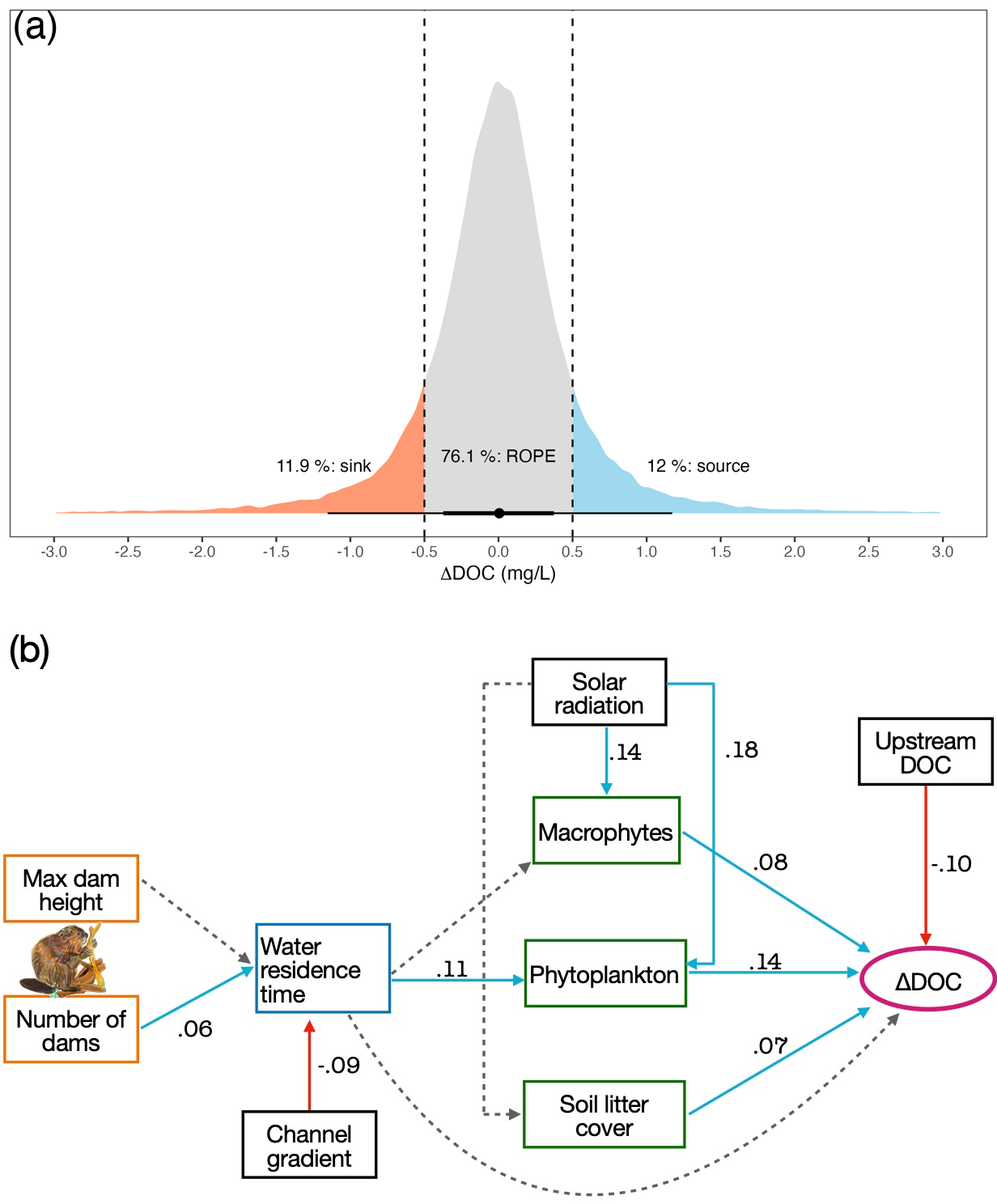
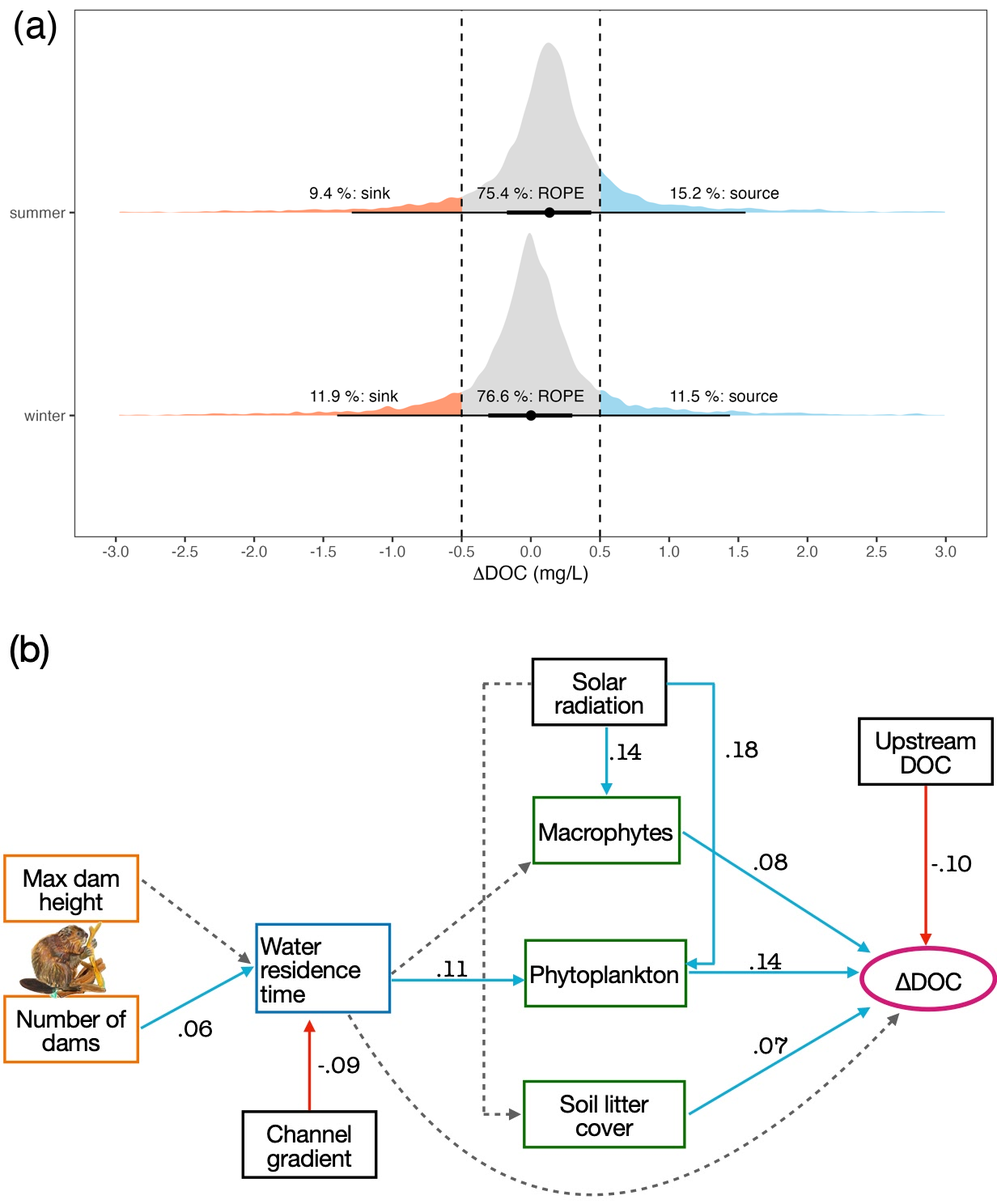
Q1: measurement-error model on raw upstream/downstream DOC (mi(0.2), Student-t, site pairing); season-specific dDOC; new Fig 2a; Methods/Results/Abstract/Discussion updated; notebook section

diff --git a/overleaf/main.tex b/overleaf/main.tex
@@ -38,7 +38,7 @@
 \affil[8]{\orgname{umweltbildner.ch}, \orgaddress{\city{Bern}, \country{Switzerland}}}
 \affil[9]{\orgdiv{Institute of Geography}, \orgname{University of Bern}, \orgaddress{\country{Switzerland}}}
 
-\abstract{Despite recolonization across Europe, the effects of beavers on freshwater dissolved organic carbon (DOC) concentrations remain understudied. DOC influences microbial activity and energy flow in aquatic food webs. Understanding how and when beaver-engineering alters DOC is therefore critical for predicting its ecosystem consequences. Using a national-scale dataset of 176 beaver-engineered streams, we quantified the direction, drivers and magnitude of the DOC concentration change across beaver dam complexes. Beaver-engineering did not change DOC in a consistent direction: the average change was null, but individual responses were highly variable, so that for a single sampling of a beaver-engineered stream the probability of a negligible DOC change was 76\%, of a DOC source response 12\%, and of a sink response 12\%. The direction of change was set by local drivers: dams increased water residence time, which promoted primary producers and thereby DOC, whereas high upstream DOC favoured DOC retention. Because the change is bidirectional, its null average conceals its magnitude: per unit area, the beaver-mediated DOC change was 140 times (summer) and 32 times (winter) larger than the seasonal floodplain-scale DOC change. Beaver engineering thus creates localized, intense and bidirectional DOC control points in stream networks, whose direction is governed by hydrology and primary producers. These findings enable stakeholders to anticipate where and when beaver presence will affect water quality and ecosystem functioning.}
+\abstract{Despite recolonization across Europe, the effects of beavers on freshwater dissolved organic carbon (DOC) concentrations remain understudied. DOC influences microbial activity and energy flow in aquatic food webs. Understanding how and when beaver-engineering alters DOC is therefore critical for predicting its ecosystem consequences. Using a national-scale dataset of 176 beaver-engineered streams, we quantified the direction, drivers and magnitude of the DOC concentration change across beaver dam complexes. Beaver-engineering did not change DOC in a consistent direction: the average change was negligible (0.14 mg/L in summer, 0.00 mg/L in winter), but individual responses were highly variable, so that for a single sampling of a beaver-engineered stream the probability of a negligible DOC change was about 76\%, of a DOC source response 11--15\%, and of a sink response 9--12\%. The direction of change was set by local drivers: dams increased water residence time, which promoted primary producers and thereby DOC, whereas high upstream DOC favoured DOC retention. Because the change is bidirectional, its null average conceals its magnitude: per unit area, the beaver-mediated DOC change was 140 times (summer) and 32 times (winter) larger than the seasonal floodplain-scale DOC change. Beaver engineering thus creates localized, intense and bidirectional DOC control points in stream networks, whose direction is governed by hydrology and primary producers. These findings enable stakeholders to anticipate where and when beaver presence will affect water quality and ecosystem functioning.}
 
 \keywords{Castor, dam, freshwater, DOC, causal inference, abundance, primary producers, hydrology}
 
@@ -96,12 +96,12 @@ Our dataset included a broad set of abiotic and biotic variables that are hypoth
 
 \subsection{Beaver-engineering effects on DOC}
 
-Beaver-engineering did not change DOC concentrations on average: the mean \(\Delta\)DOC across streams was 0.00 mg/L (95\% Bayesian credible interval [BCI]: -0.12 ; 0.12 mg/L), i.e., within the ROPE. Around this null average, however, individual responses were highly variable and heavy-tailed (Figure~\ref{fig:2}a): for a single sampling of a typical beaver-engineered stream, the posterior predictive probability of a negligible \(\Delta\)DOC was 76\%, of a DOC source response 12\%, and of a DOC sink response 12\% (95\% posterior predictive interval: -1.26 ; 1.27 mg/L). Beaver-engineered streams are therefore equally likely to increase or to decrease DOC by an ecologically relevant amount, and the heavy tails of the distribution indicate that occasional large changes occur in both directions. Because \(\Delta\)DOC is bidirectional, a null average does not imply the absence of an effect: it conceals the magnitude of the change, which we quantify below with the beaver amplification factor M (third research question).
+Beaver-engineering did not change DOC concentrations in a consistent direction. The average \(\Delta\)DOC was 0.14 mg/L in summer (95\% Bayesian credible interval [BCI]: 0.05 ; 0.22 mg/L; P(\(\Delta\)DOC \textgreater{} 0) \textgreater{} 0.99) and 0.00 mg/L in winter (95\% BCI: -0.06 ; 0.07 mg/L), i.e., a small net DOC release in summer and none in winter, both entirely within the ROPE of \(\pm 0.5\) mg/L. Around these averages, however, individual responses were highly variable and heavy-tailed (Figure~\ref{fig:2}a): for a single sampling of a beaver-engineered stream, the posterior predictive probability of a negligible \(\Delta\)DOC was 75\% in summer and 77\% in winter, of a DOC source response 15\% in summer and 11\% in winter, and of a DOC sink response 9\% in summer and 12\% in winter (95\% posterior predictive intervals: -1.9 ; 2.2 mg/L in summer, -2.0 ; 2.0 mg/L in winter). Beaver-engineered streams are therefore about as likely to increase as to decrease DOC by an ecologically relevant amount, with a slight prevalence of source responses in summer, and the heavy tails indicate that occasional large changes occur in both directions. Because \(\Delta\)DOC is bidirectional, a null average does not imply the absence of an effect: it conceals the magnitude of the change, which we quantify below with the beaver amplification factor M (third research question).
 
 \begin{figure}[htbp]
 \centering
 \includegraphics[width=\textwidth]{figures/media/figure2.png}
-\caption{a) Posterior predictive distribution of \(\Delta\)DOC for a typical beaver-engineered stream (predictors at their mean, stream-level effects integrated out). The orange shaded area represents the posterior predictive probability that a single sampling shows a DOC sink response; the light blue shaded area the probability of a DOC source response. The grey shaded area represents the Region Of Practical Equivalence (ROPE) and it defines an interval around zero where effects are too small to be of practical importance. The central dot indicates the median of the distribution, while the thick and thin horizontal lines represent the 66\% and 95\% credible intervals. b) Drivers of beaver-mediated DOC change. Solid edges (red = negative, blue = positive) represent ≥90\% probability evidence of causal effects; dashed edges represent inconclusive evidence. Standardized average effects are shown. Full posterior parameter distributions in Appendix S1: Figure S4.}\label{fig:2}
+\caption{a) Posterior predictive distribution of \(\Delta\)DOC for a single sampling of a beaver-engineered stream, in summer and winter (measurement-error model on raw upstream and downstream DOC concentrations). The orange shaded area represents the posterior predictive probability that a single sampling shows a DOC sink response; the light blue shaded area the probability of a DOC source response. The grey shaded area represents the Region Of Practical Equivalence (ROPE) and it defines an interval around zero where effects are too small to be of practical importance. The central dot indicates the median of the distribution, while the thick and thin horizontal lines represent the 66\% and 95\% intervals. b) Drivers of beaver-mediated DOC change. Solid edges (red = negative, blue = positive) represent ≥90\% probability evidence of causal effects; dashed edges represent inconclusive evidence. Standardized average effects are shown. Full posterior parameter distributions in Appendix S1: Figure S4.}\label{fig:2}
 \end{figure}
 
 \subsection{Abiotic and biotic drivers of DOC in beaver-engineered systems}
@@ -120,7 +120,7 @@ Irrespective of its direction, the magnitude of the beaver-mediated DOC change p
 
 \section{Discussion}
 
-We found that beaver engineering does not push stream DOC in a consistent direction: across 176 streams the average change was null, yet roughly one in four samplings of a beaver-engineered reach showed an ecologically relevant DOC change, as often a source as a sink response, and the magnitude of that change per unit area exceeded the seasonal floodplain-scale DOC variation by one to two orders of magnitude. Beaver ponds thus act as localized, intense and bidirectional DOC control points \cite{wohl2012,larsen2021}: whether a pond exports or retains DOC at a given moment is governed by local hydrology and primary producers rather than being a fixed property of the site. This context-dependence helps to reconcile the conflicting results of previous site-specific studies, which reported beaver ponds as either DOC sources or sinks \cite{larsen2021,grudzinski2022}. We also found that beaver-engineering influenced DOC concentrations indirectly by increasing water residence time, which, in turn, enhanced aquatic primary productivity. Beaver dams are known to slow water flow and increase light penetration, creating stable habitats for phytoplankton and macrophytes \cite{johnston2017,nummi2018}. These primary producers were shown to release organic compounds and detritus and to increase DOC concentrations in dammed streams \cite{bedzki2010}. Although our estimate of the primary-producers effect on DOC was based on a relatively limited number of samples, the positive influence we detected aligns with previously documented relationships between aquatic primary productivity and DOC in lotic ecosystems \cite{allan2021}. Similar indirect effects between water flow alteration, aquatic primary productivity, and DOC were observed in other temperate and boreal streams \cite{larsen2021,grudzinski2022}. Tracing the total effects through the SCM puts this pathway in perspective: the overall influence of dam number and height on \(\Delta\)DOC via water residence time was small compared with that of upstream DOC load and solar radiation (Appendix S1: Figure S8). Beaver dams thus create the conditions -- ponded water, longer residence time, habitat for primary producers -- under which DOC can be rapidly produced or consumed, but whether a pond exports or retains DOC at a given moment is decided mainly by what enters it (DOC load) and by the energy available to its primary producers (light, season).
+We found that beaver engineering does not push stream DOC in a consistent direction: across 176 streams the average change was null, yet roughly one in four samplings of a beaver-engineered reach showed an ecologically relevant DOC change, about as often a source as a sink response (with a slight prevalence of source responses in summer), and the magnitude of that change per unit area exceeded the seasonal floodplain-scale DOC variation by one to two orders of magnitude. Beaver ponds thus act as localized, intense and bidirectional DOC control points \cite{wohl2012,larsen2021}: whether a pond exports or retains DOC at a given moment is governed by local hydrology and primary producers rather than being a fixed property of the site. This context-dependence helps to reconcile the conflicting results of previous site-specific studies, which reported beaver ponds as either DOC sources or sinks \cite{larsen2021,grudzinski2022}. We also found that beaver-engineering influenced DOC concentrations indirectly by increasing water residence time, which, in turn, enhanced aquatic primary productivity. Beaver dams are known to slow water flow and increase light penetration, creating stable habitats for phytoplankton and macrophytes \cite{johnston2017,nummi2018}. These primary producers were shown to release organic compounds and detritus and to increase DOC concentrations in dammed streams \cite{bedzki2010}. Although our estimate of the primary-producers effect on DOC was based on a relatively limited number of samples, the positive influence we detected aligns with previously documented relationships between aquatic primary productivity and DOC in lotic ecosystems \cite{allan2021}. Similar indirect effects between water flow alteration, aquatic primary productivity, and DOC were observed in other temperate and boreal streams \cite{larsen2021,grudzinski2022}. Tracing the total effects through the SCM puts this pathway in perspective: the overall influence of dam number and height on \(\Delta\)DOC via water residence time was small compared with that of upstream DOC load and solar radiation (Appendix S1: Figure S8). Beaver dams thus create the conditions -- ponded water, longer residence time, habitat for primary producers -- under which DOC can be rapidly produced or consumed, but whether a pond exports or retains DOC at a given moment is decided mainly by what enters it (DOC load) and by the energy available to its primary producers (light, season).
 
 We hypothesised that the influence of beaver-engineering on DOC concentrations would be stronger in summer than in winter, owing to higher primary productivity and warmer water temperatures during the growing season. Our results supported this expectation: the magnitude of the beaver-mediated DOC change per unit area was roughly 140-fold in summer and 32-fold in winter that of the background floodplain-scale DOC change (Figure~\ref{fig:3}). Seasonally intensified effects of beaver-engineering on DOC mirror patterns described for nutrient cycling in other aquatic ecosystems \cite{larsen2021,grudzinski2022}. The larger magnitude of change in summer likely reflects elevated primary productivity and accelerated microbial turnover \cite{mulholland1997,raza2023}, both of which are driven by increased solar radiation and warmer temperatures \cite{battin2023}. Taken together, these patterns indicate that seasonality intensifies the effects of beaver-engineering on DOC dynamics by intensifying biologically mediated C fluxes.
 
@@ -128,7 +128,7 @@ Beaver-mediated impacts on DOC concentrations have major implications for aquati
 
 Quantifying the magnitude of the DOC change also revealed how and when beaver-engineering influenced DOC dynamics in our study. Previous studies have demonstrated spatial and temporal variability in beaver influence on DOC, but seldom expressed them relative to background seasonal variation \cite{johnston2017,ledford2023}. By normalizing beaver-mediated DOC change against seasonal floodplain-scale change, we could provide a comparable metric across climatic and ecological settings \cite{larsen2021,nummi2018}. This approach emphasizes that beaver-engineering not only modified in situ DOC concentration but also intensified DOC processing far beyond seasonal floodplain baselines, in either direction.
 
-A null average change could also arise if the upstream--downstream difference merely reflected background spatial variability of DOC along a stream. Two observations argue against this interpretation. First, we explicitly modelled the analytical measurement error of \(\Delta DOC\) (0.283 mg L\(^{-1}\)); the 95\% posterior predictive interval of \(\Delta DOC\) (-1.3 to 1.3 mg L\(^{-1}\)) is several times wider, so the variability is not measurement noise. Second, the amplification factor uses the seasonal DOC variation of each stream upstream of the beaver reach as an internal reference of background variability, and the beaver-mediated change per unit area exceeded it by one to two orders of magnitude. We did not sample paired reaches without beaver dams, however, and a direct comparison of upstream--downstream DOC differences in un-dammed reaches of similar length remains a valuable test for future work. Likewise, we did not measure vertical (hyporheic) or lateral exchange between the channel and its floodplain, which can influence DOC independently of beaver engineering \cite{larsen2021}; our test of lateral channel--wetland connectivity (Appendix S1) found no detectable influence, but it was based on a coarse, three-level classification.
+A null average change could also arise if the upstream--downstream difference merely reflected background spatial variability of DOC along a stream. Two observations argue against this interpretation. First, we propagated the analytical measurement error of each DOC concentration (0.2 mg L\(^{-1}\)) explicitly through the model; the 95\% posterior predictive interval of \(\Delta DOC\) (about -2 to 2 mg L\(^{-1}\)) is an order of magnitude wider, so the variability is not measurement noise. Second, the amplification factor uses the seasonal DOC variation of each stream upstream of the beaver reach as an internal reference of background variability, and the beaver-mediated change per unit area exceeded it by one to two orders of magnitude. We did not sample paired reaches without beaver dams, however, and a direct comparison of upstream--downstream DOC differences in un-dammed reaches of similar length remains a valuable test for future work. Likewise, we did not measure vertical (hyporheic) or lateral exchange between the channel and its floodplain, which can influence DOC independently of beaver engineering \cite{larsen2021}; our test of lateral channel--wetland connectivity (Appendix S1) found no detectable influence, but it was based on a coarse, three-level classification.
 
 In conclusion, by using a national-scale dataset, this study provides a comprehensive understanding of which beaver-mediated drivers influence DOC concentrations in streams. It also quantifies how much this beaver-mediated influence exceeds the seasonal floodplain-scale DOC variation. Beaver engineering does not make streams DOC sources or DOC sinks; it creates localized, intense control points where DOC changes far more per unit area than along the floodplain, in a direction set by hydrology and primary producers. By identifying the environmental contexts in which these control points export or retain DOC, this work offers a predictive basis for integrating beaver presence into water-quality management and conservation planning.
 
@@ -174,9 +174,15 @@ We computed the Solar radiation (\(Wh\ m^{-2}\)) of the stream reaches with the 
 
 We sampled primary producers' abundance, namely phytoplankton, macrophyte and soil litter cover at 16 sites (Figure~\ref{fig:1}a). To estimate phytoplankton abundance, we collected 50L of water from the main beaver pond and concentrated it to a 2 L sample using a 10 μm mesh. In the laboratory, we counted and identified phytoplankton with a dual-magnification dark-field imaging microscope that captured all particles in the size range between \textasciitilde10 μm and \textasciitilde1 cm using a 5.0× magnification objective. We estimated macrophyte abundance by counting each individual plant detected in the beaver ponds. We estimated soil litter percentage cover in a 1x5 m plot located at 0.5 m distance from the edge of the beaver pond in each site. We defined all dead plant material, such as leaves, but also twigs \textless7cm circumference, as soil litter.
 
-\subsection{Statistical analyses: structural causal model}
+\subsection{Statistical analyses}
 
-To answer the first and second research questions, we used a two-step analytical approach combining causal modeling and Bayesian inference to integrate prior knowledge and account for uncertainty in our parameter estimates. First we described the set of possible data-generating processes that we hypothesized to be causing \(\Delta DOC\) variation (i.e., Structural Causal Model, SCM; the hypothesized DAG is shown in Figure~\ref{fig:2}b and its causal paths are motivated in Appendix S1: Table S1) \cite{arif2023}. Second, we proceeded to infer the relationships between variables using a multivariate linear model within a Bayesian framework. A DAG makes the causal assumptions of an analysis explicit, and the identification of causal effects is conditional on those assumptions \cite{pearl2009,arif2023}. Because different DAGs encode different hypotheses on how the system works, it is recommended to specify and test alternative DAGs and to report their estimates transparently, so that the robustness of the conclusions to the assumed causal structure can be assessed \cite{tennant2021,laubach2021}. We therefore also tested an alternative, extended SCM in which the lateral connectivity between the stream and adjacent wetlands influences water residence time, and hence \(\Delta DOC\) (Appendix S1: Figures S5--S6). The full model specification is given below (Equation~\ref{eq:scm}); the tested hypotheses for each causal path, the priors, residuals and posterior predictive checks are reported in Appendix S1 (Table S1, Figures S1--S3). We considered a net change in DOC (\(\Delta DOC\)) larger than \(0.5\ mg/L\) as ecologically relevant: when \(\Delta DOC > 0.5\ mg/L\), the pond is a DOC source within the ecosystem; when \(\Delta DOC < - 0.5\ mg/L\), the pond is a DOC sink. We applied the Bayesian Region of Practical Equivalence (ROPE) to values between \(- 0.5\ and\ 0.5\ mg/L\). The ROPE defines an interval around zero where effects are too small to be of importance \cite{pan2025}. This \(\pm 0.5\ mg/L\) threshold is justified because changes of this magnitude are near levels at which DOC concentrations begin to affect light penetration, nutrient dynamics, and the balance between autotrophy and heterotrophy in freshwater ecosystems \cite{thrane2014,seekell2015}. We applied the ROPE to the posterior predictive distribution of \(\Delta DOC\) for a typical stream (all predictors at their mean, stream-level effects integrated out; Figure~\ref{fig:2}a): the shares of this distribution below, within and above the ROPE are the posterior predictive probabilities that a single sampling of a beaver-engineered stream shows a sink, a negligible or a source response. These probabilities describe the variability of individual responses and are not percentages of streams; the expected \(\Delta DOC\) of each individual stream is reported in Appendix S1 (Figure S7). We also applied the ROPE to the posterior of the average \(\Delta DOC\) (model intercept).
+\subsubsection{Direction of the beaver-mediated DOC change (first research question)}
+
+To estimate the direction of the beaver-mediated DOC change we modelled the raw upstream and downstream DOC concentrations rather than their pre-computed difference, so that the analytical measurement error of each concentration (0.2 mg L\(^{-1}\)) is propagated exactly to \(\Delta DOC\). We fitted a Bayesian hierarchical measurement-error model in which the observed concentration of each sample is a noisy measurement of a latent true concentration (\texttt{mi(0.2)} in \emph{brms}), and the latent concentrations follow a Student-\(t\) distribution (to accommodate the heavy-tailed distribution of DOC) whose mean is a season \(\times\) location (upstream/downstream) factorial, with random intercepts for stream and for stream \(\times\) season that pair the upstream and downstream samples of the same stream and sampling occasion \cite{gelman2013}. The average \(\Delta DOC\) of each season is derived from the posterior as the difference between the downstream and upstream season means, and the posterior predictive distribution of \(\Delta DOC\) for a single sampling of a stream as that difference plus the difference of two residual draws. We considered a net change in DOC larger than \(0.5\ mg/L\) as ecologically relevant: when \(\Delta DOC > 0.5\ mg/L\), the pond is a DOC source within the ecosystem; when \(\Delta DOC < - 0.5\ mg/L\), the pond is a DOC sink. We applied the Bayesian Region of Practical Equivalence (ROPE) to values between \(- 0.5\ and\ 0.5\ mg/L\); the ROPE defines an interval around zero where effects are too small to be of importance \cite{pan2025}. This \(\pm 0.5\ mg/L\) threshold is justified because changes of this magnitude are near levels at which DOC concentrations begin to affect light penetration, nutrient dynamics, and the balance between autotrophy and heterotrophy in freshwater ecosystems \cite{thrane2014,seekell2015}. We applied the ROPE (i) to the posterior of the seasonal average \(\Delta DOC\) and (ii) to the posterior predictive distribution of \(\Delta DOC\) for a single sampling (Figure~\ref{fig:2}a): the shares of the latter below, within and above the ROPE are the posterior predictive probabilities that one sampling of a beaver-engineered stream shows a sink, a negligible or a source response. These probabilities describe the variability of individual responses and are not percentages of streams; with two samplings per stream, stream-specific \(\Delta DOC\) values cannot be resolved (Appendix S1: Figure S7).
+
+\subsubsection{Drivers of the beaver-mediated DOC change: structural causal model (second research question)}
+
+To answer the second research question, we used a two-step analytical approach combining causal modeling and Bayesian inference to integrate prior knowledge and account for uncertainty in our parameter estimates. First we described the set of possible data-generating processes that we hypothesized to be causing \(\Delta DOC\) variation (i.e., Structural Causal Model, SCM; the hypothesized DAG is shown in Figure~\ref{fig:2}b and its causal paths are motivated in Appendix S1: Table S1) \cite{arif2023}. Second, we proceeded to infer the relationships between variables using a multivariate linear model within a Bayesian framework. A DAG makes the causal assumptions of an analysis explicit, and the identification of causal effects is conditional on those assumptions \cite{pearl2009,arif2023}. Because different DAGs encode different hypotheses on how the system works, it is recommended to specify and test alternative DAGs and to report their estimates transparently, so that the robustness of the conclusions to the assumed causal structure can be assessed \cite{tennant2021,laubach2021}. We therefore also tested an alternative, extended SCM in which the lateral connectivity between the stream and adjacent wetlands influences water residence time, and hence \(\Delta DOC\) (Appendix S1: Figures S5--S6). The full model specification is given below (Equation~\ref{eq:scm}); the tested hypotheses for each causal path, the priors, residuals and posterior predictive checks are reported in Appendix S1 (Table S1, Figures S1--S3). In the SCM, \(\Delta DOC\) enters as the outcome with its propagated measurement error (Equations~\ref{eq:err}--\ref{eq:scm}).
 
 In this study we used the structural causal model (SCM) framework to answer the research questions (\emph{sensu} \citealp{arif2023}). The SCM can be considered as a directed acyclic graph (DAG) with nodes and edges. The nodes indicate the relevant variables of the ecosystem and the edges indicate direct causal influences. The edges are acyclic because a cause is not at the same time an effect. We fitted the SCM with the Bayesian framework to accommodate the uncertainty inherent in ecological data and to incorporate prior distributions based on previous research and expert opinion \cite{gelman2013}.
 

diff --git a/overleaf/supplementary/appendix_S1.tex b/overleaf/supplementary/appendix_S1.tex
@@ -100,7 +100,7 @@ Posterior predictive checks assess how well the fitted SCM model reproduces obse
 
 \section*{Structural Causal Model: stream-level classification of $\Delta$DOC}
 
-To avoid conflating the posterior predictive probability of a response (Figure 2a, main document) with the proportion of streams showing that response, we classified each stream individually. For each of the 179 streams we computed the posterior distribution of the expected $\Delta$DOC (population-level effects plus the stream-level intercept, averaged over the stream's observations; 2,000 posterior draws) and assigned the stream to the region (sink $< -0.5$ mg L$^{-1}$, ROPE $\pm 0.5$ mg L$^{-1}$, source $> 0.5$ mg L$^{-1}$) that held the majority of its posterior mass. The expected $\Delta$DOC of all 179 streams fell within the ROPE (posterior medians from $-0.40$ to $0.38$ mg L$^{-1}$; median width of the 90\% credible interval 0.41 mg L$^{-1}$; Figure~\ref{fig:S7}), reflecting the small average effect (intercept 0.00 mg L$^{-1}$; 95\% BCI $-0.12$; 0.12) and the small between-stream standard deviation (0.05 mg L$^{-1}$; 95\% BCI 0.00; 0.14). The heavy-tailed posterior predictive distribution of Figure 2a (Student-$t$ residual with $\nu \approx 2$) thus captures the variability of individual samplings around a null average rather than consistent stream-level differences.
+To avoid conflating the posterior predictive probability of a response (Figure 2a, main document) with the proportion of streams showing that response, we classified each stream individually using the structural causal model (SCM), which includes a stream-level random intercept. (As a consistency check, the posterior predictive distribution of $\Delta$DOC from the SCM for a typical stream -- predictors at their mean, stream effects integrated out -- gives 12\% sink, 76\% negligible and 12\% source responses, in close agreement with the season-specific measurement-error model of Figure 2a.) For each of the 179 streams we computed the posterior distribution of the expected $\Delta$DOC (population-level effects plus the stream-level intercept, averaged over the stream's observations; 2,000 posterior draws) and assigned the stream to the region (sink $< -0.5$ mg L$^{-1}$, ROPE $\pm 0.5$ mg L$^{-1}$, source $> 0.5$ mg L$^{-1}$) that held the majority of its posterior mass. The expected $\Delta$DOC of all 179 streams fell within the ROPE (posterior medians from $-0.40$ to $0.38$ mg L$^{-1}$; median width of the 90\% credible interval 0.41 mg L$^{-1}$; Figure~\ref{fig:S7}), reflecting the small average effect (intercept 0.00 mg L$^{-1}$; 95\% BCI $-0.12$; 0.12) and the small between-stream standard deviation (0.05 mg L$^{-1}$; 95\% BCI 0.00; 0.14). The heavy-tailed posterior predictive distribution of Figure 2a thus captures the variability of individual samplings around a null average rather than consistent stream-level differences.
 
 \begin{figure}[htbp]
 \centering

diff --git a/README.md b/README.md
@@ -13,9 +13,9 @@ direction, and through which mechanisms?
 Using a nationwide dataset of 176 beaver-affected stream reaches in Switzerland (monthly sampling
 upstream and downstream of beaver dam complexes) we ask:
 
-1. **Direction and size of the effect** – Is the change in DOC across a beaver complex
-   (ΔDOC = downstream − upstream) negligible, positive (beaver ponds as a DOC *source*) or
-   negative (DOC *sink*)? → *Figure 2a*
+1. **Direction** – Is the change in DOC across a beaver complex (ΔDOC = downstream − upstream)
+   negligible, positive (beaver ponds as a DOC *source*) or negative (DOC *sink*)? Measurement-error
+   model on raw upstream/downstream DOC, by season → *Figure 2a*
 2. **Pathways** – Through which causal paths (hydrology: water residence time, discharge, dam number
    and height; biology: macrophytes, plankton, litter cover; solar radiation, slope, DOC input) does
    beaver-engineering influence ΔDOC? → Structural causal model (DAG) + Bayesian multivariate
@@ -35,7 +35,7 @@ upstream and downstream of beaver dam complexes) we ask:
 | `data/processed/m12.csv` | Dataset used for the amplification-factor model |
 | `data/processed/later_connectivity_berger.csv` | Site-level lateral stream–wetland connectivity classification (K. Berger) |
 | `results/figures/` | Figures produced by the notebook |
-| `results/models_fit/` | Fitted `brms` models (`b1.rds`, `M.rds`). **Not tracked by git** (size); they are regenerated by the notebook |
+| `results/models_fit/` | Fitted `brms` models (`doc_raw_student.rds` for Q1, `b1.rds` SCM for Q2, `M.rds` for Q3). **Not tracked by git** (size); they are regenerated by the notebook |
 | `images/` | Illustrations used in figures (DAG, beaver artwork) |
 | `notebook/references.bib`, `notebook/custom.css` | Bibliography and styling for the notebook |
 | `overleaf/` | LaTeX source of the manuscript (`main.tex`, Springer Nature / Scientific Reports template) and of Appendix S1 (`supplementary/appendix_S1.tex`); the repo is imported into Overleaf — see `overleaf/README.md` |
